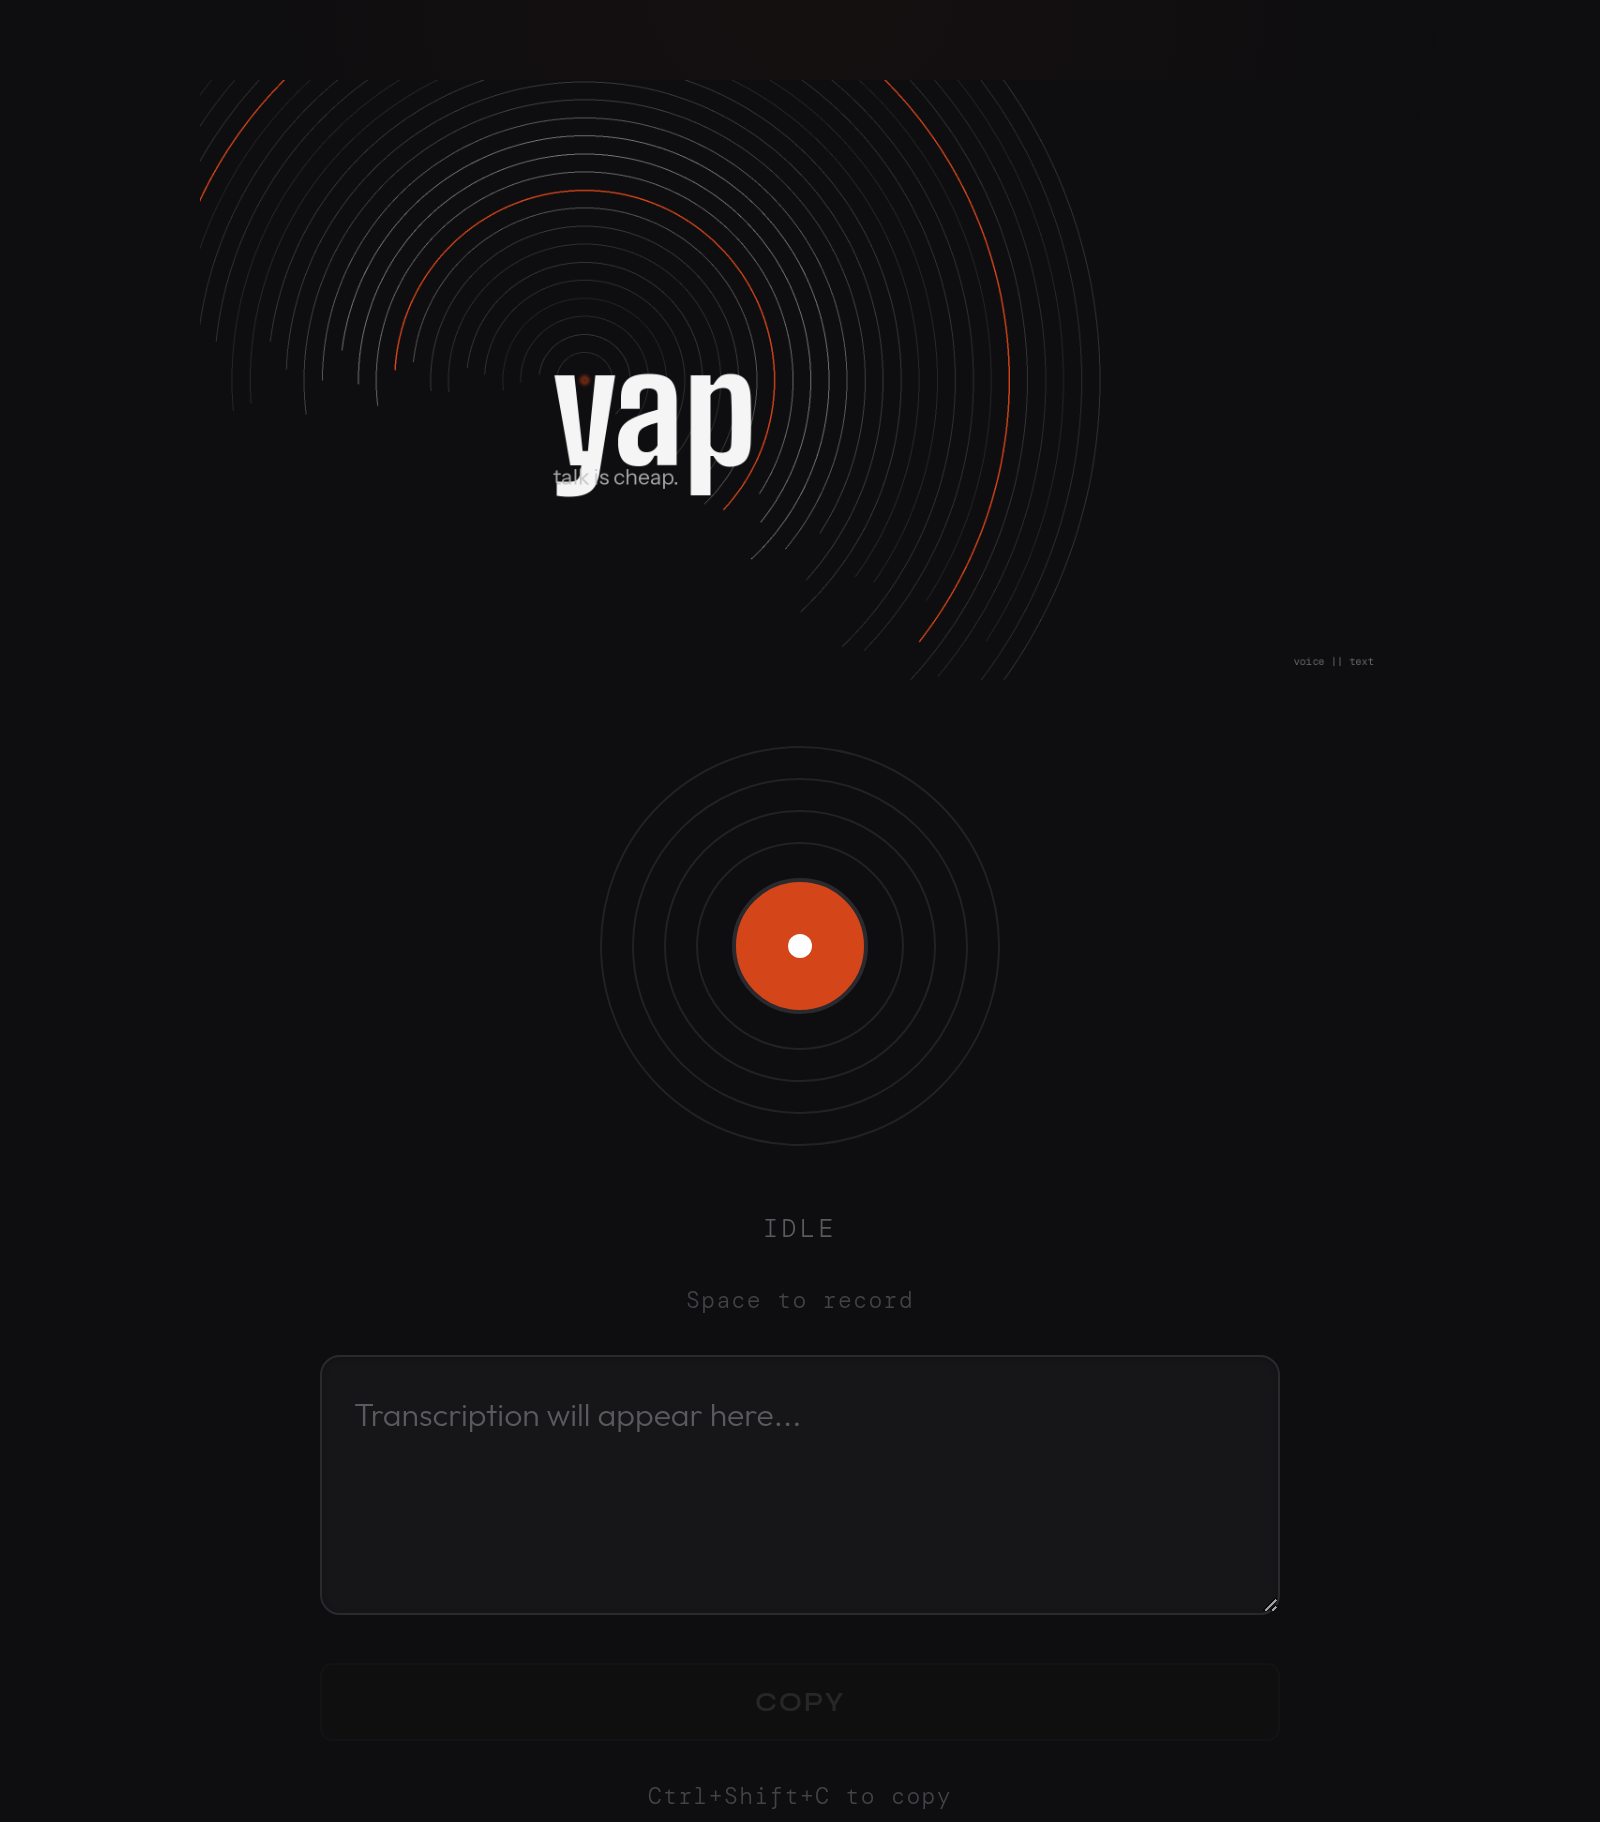
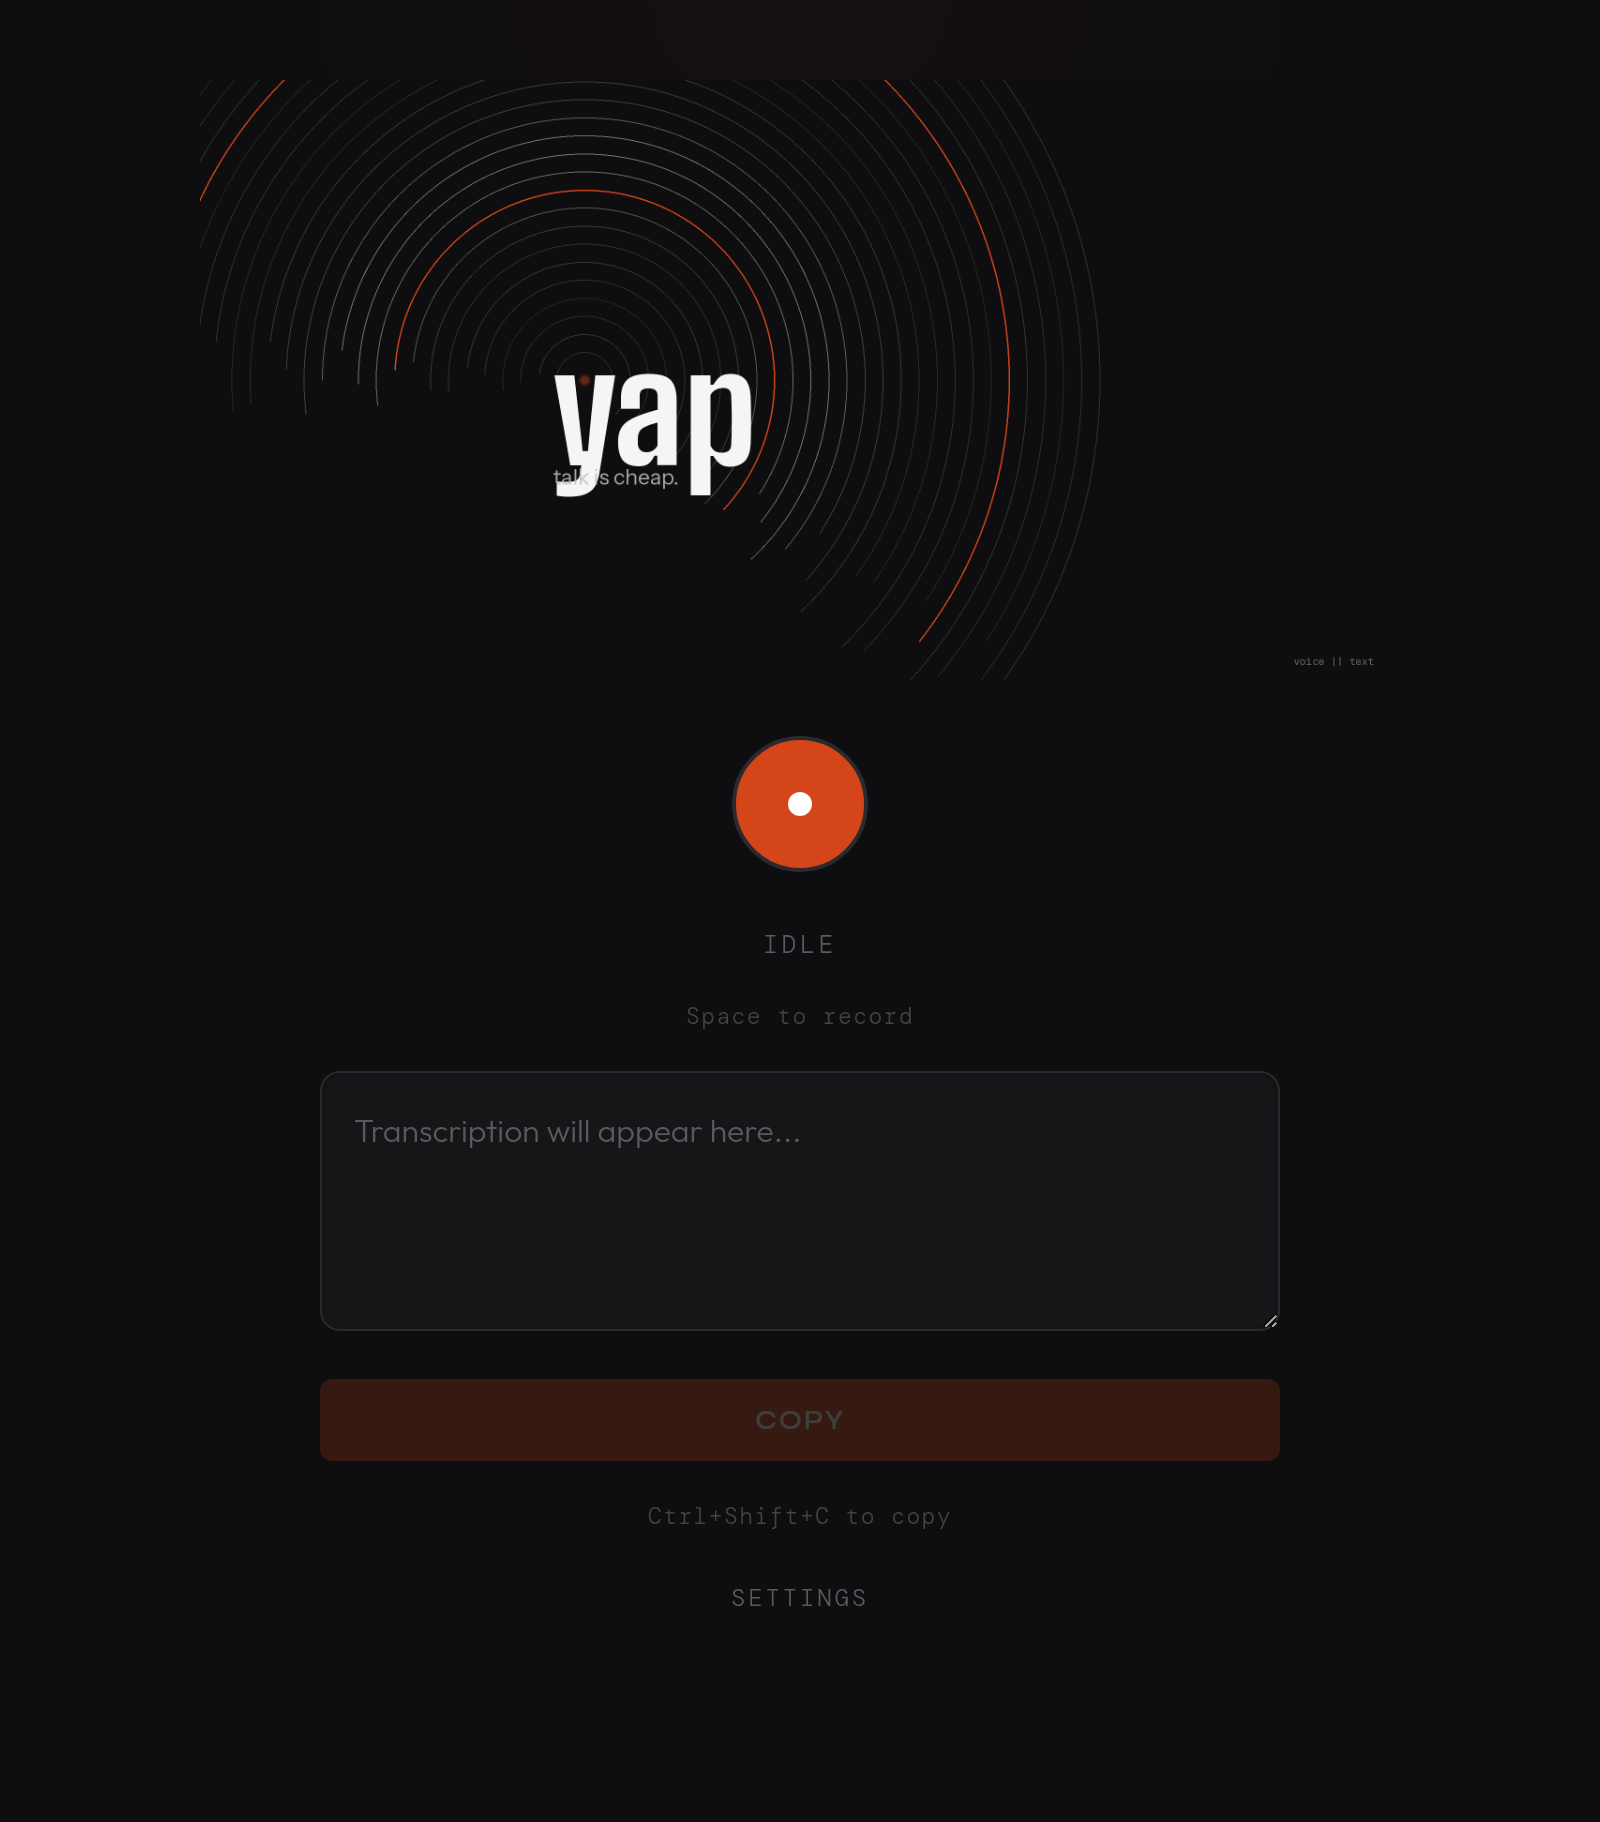
style(web): remove wave rings, accent-color copy button
Simplify record button by removing concentric wave ring animation.
Style copy button with accent color to match record button.
Update screenshot.

diff --git a/src/yap/static/index.html b/src/yap/static/index.html
@@ -103,49 +103,12 @@ main {
 }
 .status-dot.disconnected { background: var(--accent); }
 
-/* Record button with wave rings */
+/* Record button */
 .record-wrap {
-  position: relative;
-  width: 210px;
-  height: 210px;
   display: flex;
   align-items: center;
   justify-content: center;
   margin: 0.75rem 0;
-}
-
-.wave-ring {
-  position: absolute;
-  border-radius: 50%;
-  border: 1px solid var(--border-subtle);
-  pointer-events: none;
-  transition: border-color 0.6s ease, opacity 0.6s ease;
-}
-
-.wave-ring:nth-child(1) { width: 104px; height: 104px; }
-.wave-ring:nth-child(2) { width: 136px; height: 136px; }
-.wave-ring:nth-child(3) { width: 168px; height: 168px; }
-.wave-ring:nth-child(4) { width: 200px; height: 200px; }
-
-.recording .wave-ring {
-  animation: wave-expand 2.4s cubic-bezier(0.4, 0, 0.2, 1) infinite;
-  border-color: rgba(212, 69, 26, 0.15);
-}
-
-.recording .wave-ring:nth-child(1) { animation-delay: 0s; }
-.recording .wave-ring:nth-child(2) { animation-delay: 0.5s; }
-.recording .wave-ring:nth-child(3) { animation-delay: 1.0s; }
-.recording .wave-ring:nth-child(4) { animation-delay: 1.5s; }
-
-.recording .wave-ring:nth-child(2) {
-  border-color: var(--accent);
-  opacity: 0.45;
-}
-
-@keyframes wave-expand {
-  0% { transform: scale(0.88); opacity: 0; }
-  25% { opacity: 0.5; }
-  100% { transform: scale(1.18); opacity: 0; }
 }
 
 .record-btn {
@@ -285,10 +248,10 @@ main:hover .hotkey-hint { opacity: 1; }
 .actions button {
   flex: 1;
   padding: 0.65rem 1rem;
-  border: 1px solid var(--border);
+  border: 2px solid var(--accent);
   border-radius: var(--radius-sm);
-  background: var(--surface);
-  color: var(--text-dim);
+  background: var(--accent);
+  color: #fff;
   font-family: var(--font-display);
   font-size: 0.85rem;
   font-weight: 600;
@@ -299,9 +262,9 @@ main:hover .hotkey-hint { opacity: 1; }
 }
 
 .actions button:hover {
-  background: var(--surface-raised);
-  border-color: #444;
-  color: var(--text);
+  background: var(--accent-soft);
+  border-color: var(--accent-soft);
+  box-shadow: 0 0 20px var(--accent-glow);
 }
 
 .actions button:disabled {
@@ -434,10 +397,6 @@ main:hover .hotkey-hint { opacity: 1; }
   </div>
 
   <div class="record-wrap" id="recordWrap">
-    <div class="wave-ring"></div>
-    <div class="wave-ring"></div>
-    <div class="wave-ring"></div>
-    <div class="wave-ring"></div>
     <button class="record-btn" id="recordBtn" disabled></button>
   </div>
   <div class="state-label" id="stateLabel">idle</div>
@@ -507,7 +466,6 @@ main:hover .hotkey-hint { opacity: 1; }
   const statusDot = document.getElementById("statusDot");
   const statusText = document.getElementById("statusText");
   const recordBtn = document.getElementById("recordBtn");
-  const recordWrap = document.getElementById("recordWrap");
   const stateLabel = document.getElementById("stateLabel");
   const output = document.getElementById("output");
   const copyBtn = document.getElementById("copyBtn");
@@ -666,10 +624,8 @@ main:hover .hotkey-hint { opacity: 1; }
   function setState(state) {
     stateLabel.textContent = state;
     recordBtn.classList.remove("recording", "transcribing");
-    recordWrap.classList.remove("recording");
     if (state === "recording") {
       recordBtn.classList.add("recording");
-      recordWrap.classList.add("recording");
       recording = true;
     } else if (state === "transcribing") {
       recordBtn.classList.add("transcribing");
